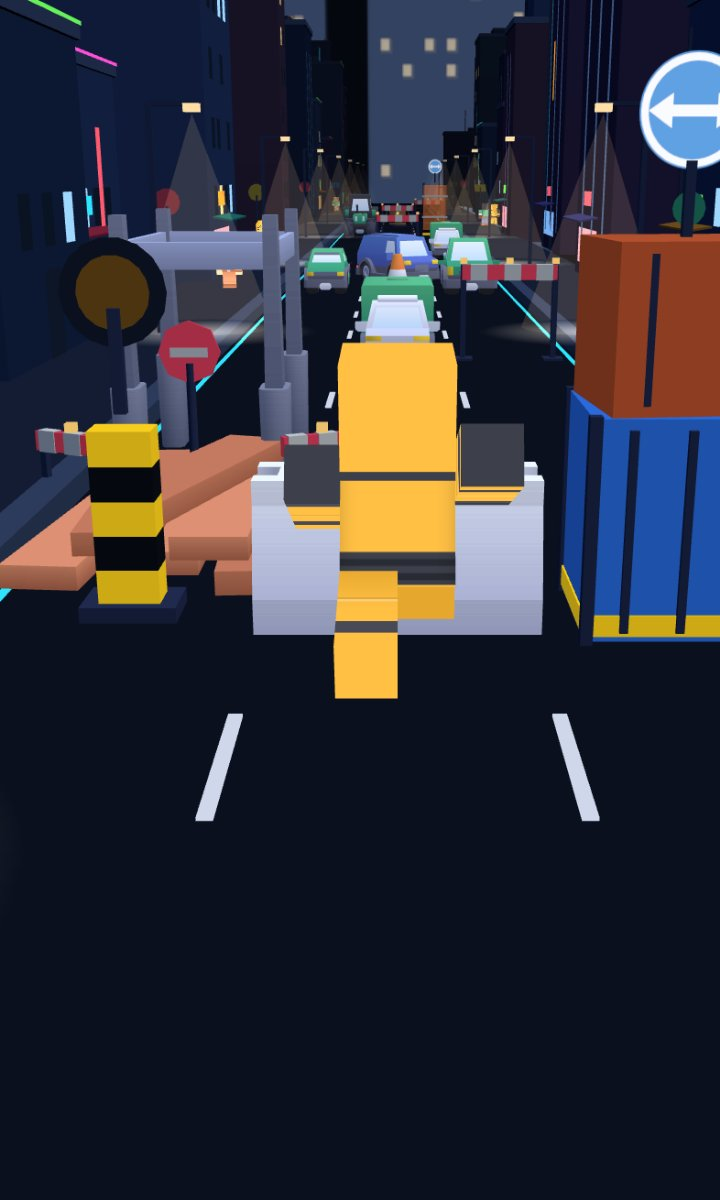
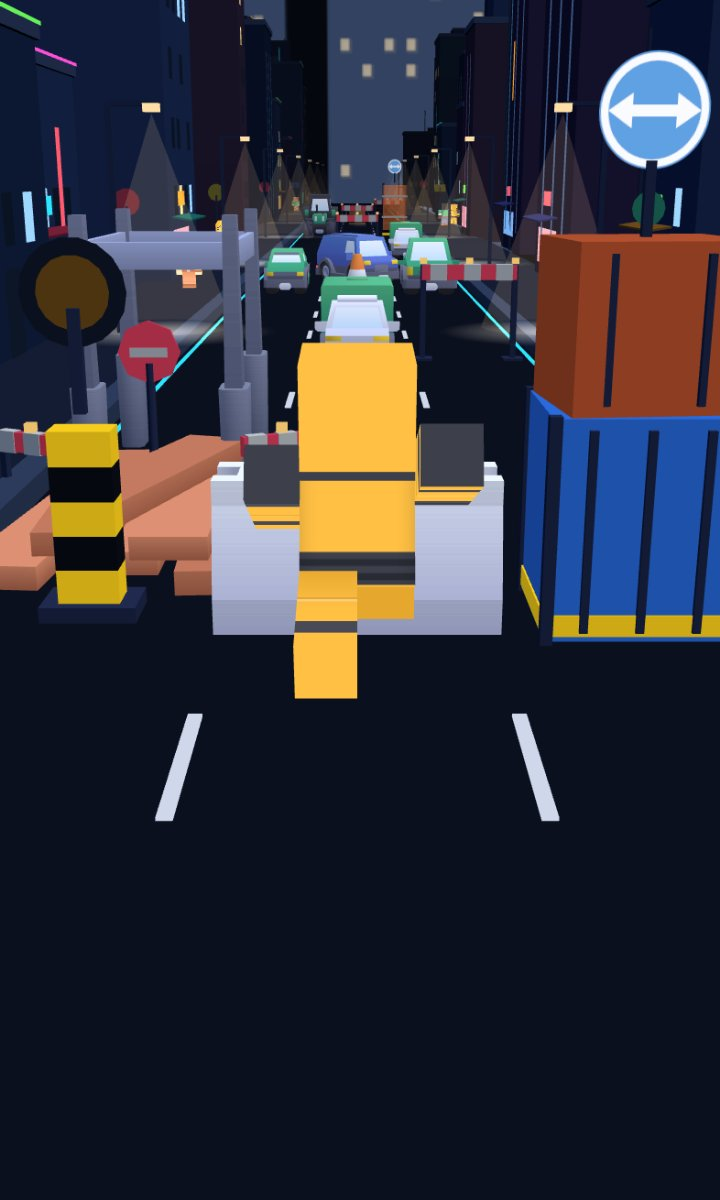
Center endless art on runner, 30% default volume, 3-col phone grid, rename to Store, menu art slideshow

diff --git a/resources/js/Pages/Game.vue b/resources/js/Pages/Game.vue
@@ -350,6 +350,18 @@
     </div>
 
     <div v-if="state === 'menu' && !showAuthGate" class="menu-overlay">
+      <!-- Main-menu backdrop: slow Ken-Burns slideshow of the stage shots
+           instead of the raw live game scene. -->
+      <div v-if="menuScreen === 'main'" class="menu-backdrop" aria-hidden="true">
+        <div
+          v-for="(img, i) in menuBackdrops"
+          :key="img"
+          class="menu-backdrop-slide"
+          :class="{ active: i === menuBgIndex }"
+          :style="{ backgroundImage: `url(${img})` }"
+        ></div>
+        <div class="menu-backdrop-scrim"></div>
+      </div>
       <div v-if="menuScreen === 'main'" class="menu-layout">
         <div class="menu-hero">
           <div class="menu-eyebrow">Neon Night City</div>
@@ -387,7 +399,7 @@
           <nav class="menu-tiles">
             <button class="menu-tile" @click="openMenuScreen('level')" type="button">
               <svg viewBox="0 0 24 24" aria-hidden="true"><path d="M8.5 3.5L4 6.2l1.7 3.5L8 8.6V20h8V8.6l2.3 1.1L20 6.2l-4.5-2.7a3.5 3.5 0 01-7 0z" fill="none" stroke="currentColor" stroke-width="1.8" stroke-linejoin="round"/></svg>
-              <span>Collection</span>
+              <span>Store</span>
             </button>
             <button class="menu-tile" @click="openMenuScreen('missions')" type="button">
               <svg viewBox="0 0 24 24" aria-hidden="true"><circle cx="12" cy="12" r="8.2" fill="none" stroke="currentColor" stroke-width="1.8"/><circle cx="12" cy="12" r="4.2" fill="none" stroke="currentColor" stroke-width="1.8"/><circle cx="12" cy="12" r="1.3" fill="currentColor"/></svg>
@@ -433,7 +445,7 @@
             <div class="menu-screen-title">
               {{
                 menuScreen === 'level'
-                  ? 'Collection'
+                  ? 'Store'
                   : menuScreen === 'missions'
                       ? 'Daily Missions'
                       : menuScreen === 'classic'
@@ -1070,6 +1082,33 @@ const loadingProfile = ref(false);
 const runToken = ref(null);
 const inventoryItems = ref([]);
 const menuScreen = ref('main');
+
+// Main-menu backdrop slideshow: the stage shots crossfade with a slow
+// Ken-Burns drift while the player sits on the main menu; the timer stops
+// on subscreens and during runs.
+const menuBackdrops = [
+  '/images/stages/stage-1-wide.jpg',
+  '/images/stages/stage-2-wide.jpg',
+  '/images/stages/stage-3-wide.jpg',
+  '/images/stages/stage-4-wide.jpg',
+];
+const menuBgIndex = ref(0);
+let menuBgTimer = null;
+watch(
+  [state, menuScreen],
+  () => {
+    const active = state.value === 'menu' && menuScreen.value === 'main';
+    if (active && !menuBgTimer) {
+      menuBgTimer = setInterval(() => {
+        menuBgIndex.value = (menuBgIndex.value + 1) % menuBackdrops.length;
+      }, 7000);
+    } else if (!active && menuBgTimer) {
+      clearInterval(menuBgTimer);
+      menuBgTimer = null;
+    }
+  },
+  { immediate: true },
+);
 const showLoginPrompt = ref(false);
 const showAuthGate = ref(false);
 const cameraZoom = ref(1);
@@ -10299,6 +10338,10 @@ onBeforeUnmount(() => {
       clearTimeout(timer);
     }
   });
+  if (menuBgTimer) {
+    clearInterval(menuBgTimer);
+    menuBgTimer = null;
+  }
   if (pointerUnlockHandler) {
     window.removeEventListener('pointerdown', pointerUnlockHandler);
   }
@@ -11323,6 +11366,58 @@ onBeforeUnmount(() => {
     linear-gradient(180deg, rgba(5, 7, 15, 0.92) 0%, rgba(5, 7, 15, 0.55) 45%, rgba(5, 7, 15, 0.88) 100%);
   z-index: 3;
   animation: fadeIn 0.5s ease;
+}
+
+/* --- Main-menu backdrop slideshow: stage shots crossfading with a slow
+   Ken-Burns drift, dimmed hard so the menu stays readable. --- */
+.menu-backdrop {
+  position: absolute;
+  inset: 0;
+  overflow: hidden;
+}
+
+.menu-overlay > .menu-layout,
+.menu-overlay > .menu-screen {
+  position: relative;
+  z-index: 1;
+}
+
+.menu-backdrop-slide {
+  position: absolute;
+  inset: -5%;
+  background-size: cover;
+  background-position: center;
+  opacity: 0;
+  transition: opacity 1.8s ease;
+  animation: menu-kenburns 20s ease-in-out infinite alternate;
+  will-change: opacity, transform;
+}
+
+/* Stagger the drift so neighbouring slides never move in lockstep. */
+.menu-backdrop-slide:nth-child(2n) {
+  animation-duration: 26s;
+  animation-direction: alternate-reverse;
+}
+
+.menu-backdrop-slide.active {
+  opacity: 1;
+}
+
+@keyframes menu-kenburns {
+  from {
+    transform: scale(1) translateX(-1%);
+  }
+  to {
+    transform: scale(1.09) translateX(1%);
+  }
+}
+
+.menu-backdrop-scrim {
+  position: absolute;
+  inset: 0;
+  background:
+    radial-gradient(ellipse at 50% -12%, rgba(60, 130, 220, 0.14), transparent 55%),
+    linear-gradient(180deg, rgba(5, 7, 15, 0.9) 0%, rgba(5, 7, 15, 0.68) 45%, rgba(5, 7, 15, 0.9) 100%);
 }
 
 .menu-layout {
@@ -12601,6 +12696,8 @@ onBeforeUnmount(() => {
 .skin-cell-name {
   line-height: 1.3;
   text-align: center;
+  max-width: 100%;
+  overflow-wrap: break-word;
 }
 
 .skin-cell-sub {
@@ -13120,6 +13217,12 @@ onBeforeUnmount(() => {
     width: 100%;
   }
 
+  /* Phones: exactly 3 collection cells per row, cells may shrink below
+     their content width (minmax 0) so the grid never overflows the dock. */
+  .skin-grid {
+    grid-template-columns: repeat(3, minmax(0, 1fr));
+  }
+
   .menu-hero {
     margin-top: 2vh;
   }
@@ -13176,6 +13279,10 @@ onBeforeUnmount(() => {
 
 @media (prefers-reduced-motion: reduce) {
   .play-btn::after {
+    animation: none;
+  }
+
+  .menu-backdrop-slide {
     animation: none;
   }
 

diff --git a/resources/js/game/audio.js b/resources/js/game/audio.js
@@ -13,7 +13,7 @@ const buildTrack = (id, title, file) => ({
 });
 
 export function createAudioSystem({ state, speed }) {
-  const audioVolume = ref(0.7);
+  const audioVolume = ref(0.3);
   const isMuted = ref(false);
   const isPaused = ref(false);
   const currentTrackName = ref('');
@@ -51,8 +51,8 @@ export function createAudioSystem({ state, speed }) {
   let musicDuckCurrent = 1;
 
   const loadAudioPrefs = () => {
-    const storedVolume = Number.parseFloat(localStorage.getItem('runner_audio_volume') || '0.7');
-    audioVolume.value = Number.isFinite(storedVolume) ? storedVolume : 0.7;
+    const storedVolume = Number.parseFloat(localStorage.getItem('runner_audio_volume') || '0.3');
+    audioVolume.value = Number.isFinite(storedVolume) ? storedVolume : 0.3;
     isMuted.value = localStorage.getItem('runner_audio_muted') === '1';
 
     const disabled = localStorage.getItem('runner_audio_disabled');